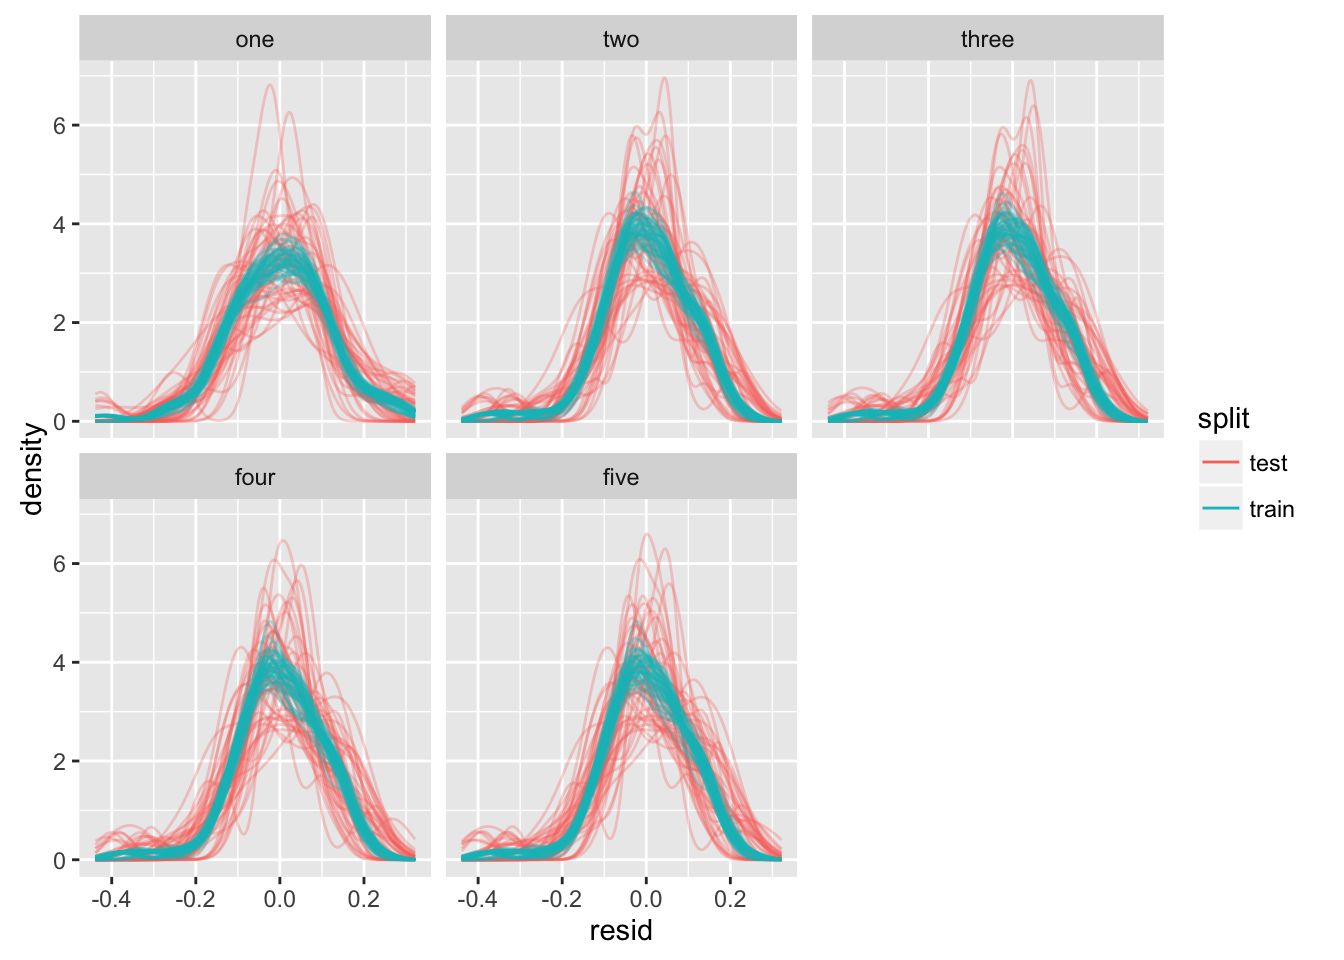
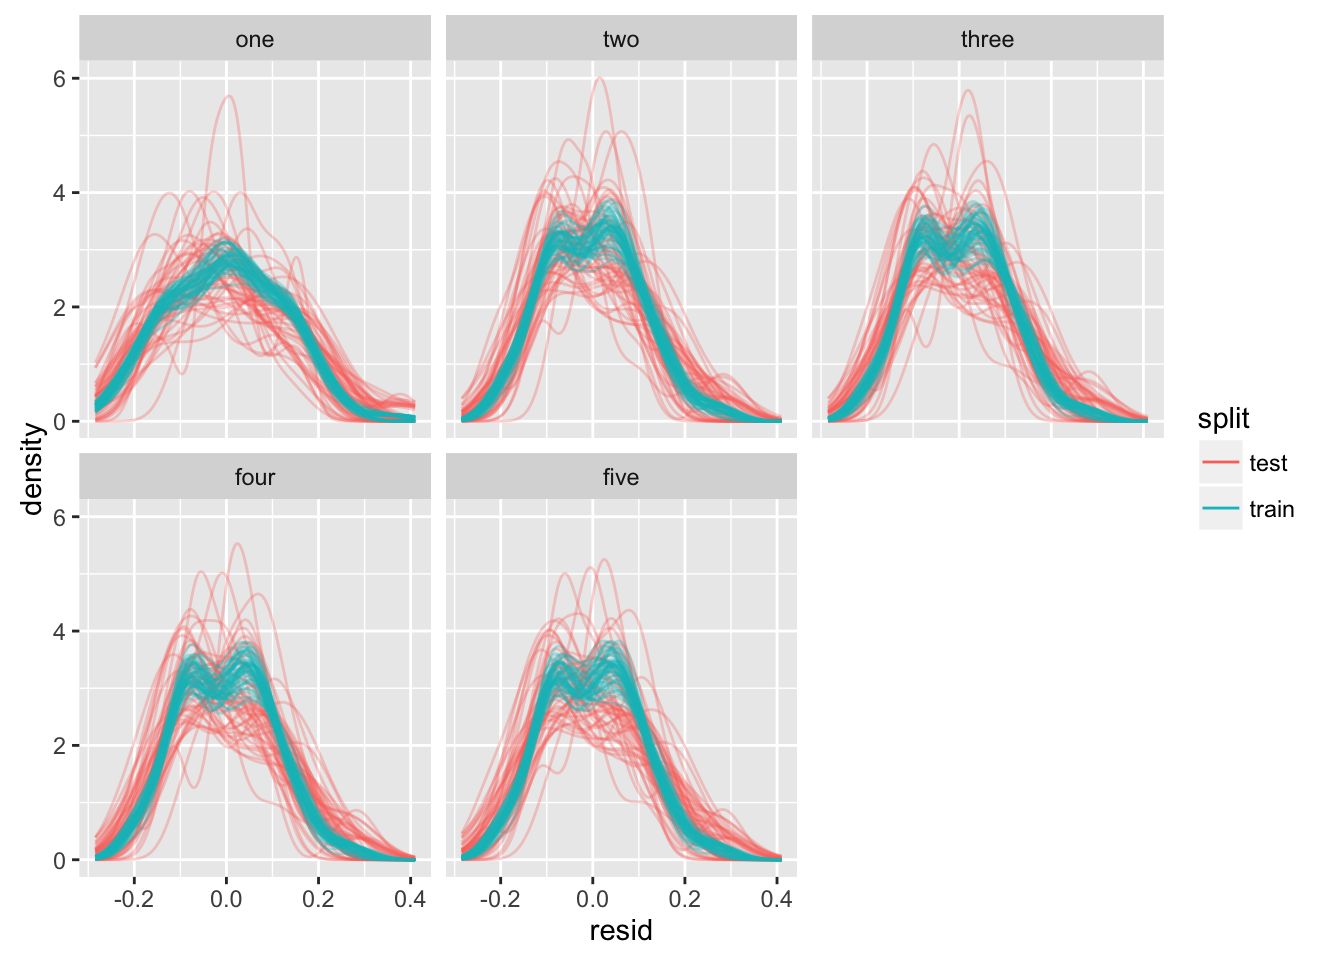
adds explicit reference

diff --git a/model_cv_selection.html b/model_cv_selection.html
@@ -373,6 +373,7 @@ knitr::opts_chunk$set(comment = &quot;&quot;) # put this into a format, once dev
 <li><p>For a given model (such as the chosen one), we want to make an estimate of how much confidence we should have in the significance of each of its coefficients.</p></li>
 </ol>
 <p>For the first two, we will use cross-validation - for the third we will use boostrapping.</p>
+<p>In each case, I am trying to follow the spirit of “An Introduction to Statistical Learning” using the purrr/modelr toolbox.</p>
 <div id="linear-regression" class="section level2">
 <h2>Linear regression</h2>
 <p>Following Hadley’s example, we want to create a dataset using the “truth” and “noise” that we specify.</p>
@@ -394,16 +395,16 @@ knitr::opts_chunk$set(comment = &quot;&quot;) # put this into a format, once dev
 <pre><code># A tibble: 100 x 2
            x        y
        &lt;dbl&gt;    &lt;dbl&gt;
-1  0.5210547 1.855529
-2  0.4627843 1.573038
-3  0.5244896 1.677966
-4  0.9891559 1.947288
-5  0.5416644 1.835031
-6  0.6756441 1.889039
-7  0.3519536 1.962250
-8  0.5697320 1.759407
-9  0.7733154 1.918960
-10 0.2193805 1.339989
+1  0.3586151 1.709639
+2  0.7227688 1.999813
+3  0.9120362 1.985136
+4  0.4834145 1.463210
+5  0.5616187 1.723652
+6  0.5039099 1.960012
+7  0.5369624 1.715158
+8  0.7751628 1.947230
+9  0.3489107 1.692465
+10 0.2650002 1.560231
 # ... with 90 more rows</code></pre>
 <p>Of course, our first step is to visualize the dataset.</p>
 <pre class="r"><code>ggplot(df, aes(x = x, y = y)) +
@@ -437,16 +438,16 @@ knitr::opts_chunk$set(comment = &quot;&quot;) # put this into a format, once dev
  $ train:List of 1
   ..$ :List of 2
   .. ..$ data:Classes &#39;tbl_df&#39;, &#39;tbl&#39; and &#39;data.frame&#39;: 100 obs. of  2 variables:
-  .. .. ..$ x: num  0.521 0.463 0.524 0.989 0.542 ...
-  .. .. ..$ y: num  1.86 1.57 1.68 1.95 1.84 ...
-  .. ..$ idx : int  1 2 3 5 6 8 9 10 11 12 ...
+  .. .. ..$ x: num  0.359 0.723 0.912 0.483 0.562 ...
+  .. .. ..$ y: num  1.71 2 1.99 1.46 1.72 ...
+  .. ..$ idx : int  2 3 4 7 10 12 13 14 15 16 ...
   .. ..- attr(*, &quot;class&quot;)= chr &quot;resample&quot;
  $ test :List of 1
   ..$ :List of 2
   .. ..$ data:Classes &#39;tbl_df&#39;, &#39;tbl&#39; and &#39;data.frame&#39;: 100 obs. of  2 variables:
-  .. .. ..$ x: num  0.521 0.463 0.524 0.989 0.542 ...
-  .. .. ..$ y: num  1.86 1.57 1.68 1.95 1.84 ...
-  .. ..$ idx : int  4 7 13 30 31 33 34 39 52 55 ...
+  .. .. ..$ x: num  0.359 0.723 0.912 0.483 0.562 ...
+  .. .. ..$ y: num  1.71 2 1.99 1.46 1.72 ...
+  .. ..$ idx : int  1 5 6 8 9 11 22 26 33 46 ...
   .. ..- attr(*, &quot;class&quot;)= chr &quot;resample&quot;
  $ .id  : chr &quot;01&quot;</code></pre>
 <p>One thing you may notice is that both the train and test elements both <em>appear</em> to contain the entire original dataset. In fact, R keeps a single copy of the original dataframe, then uses pointers wherever it is used elsewhere in the session. For more, you can read <a href="http://adv-r.had.co.nz/memory.html#object-size">this section</a> and how I got some help in <a href="https://github.com/hadley/modelr/issues/14">this thread</a>.</p>
@@ -519,16 +520,16 @@ sample_response &lt;- function(sample, model){
 <pre><code># A tibble: 5,000 x 5
      .id split     pred     resp        resid
    &lt;chr&gt; &lt;chr&gt;    &lt;dbl&gt;    &lt;dbl&gt;        &lt;dbl&gt;
-1     01 train 1.706350 1.855529 -0.149178776
-2     01 train 1.652638 1.573038  0.079599650
-3     01 train 1.709516 1.677966  0.031550473
-4     01 train 1.725347 1.835031 -0.109683252
-5     01 train 1.848846 1.889039 -0.040193328
-6     01 train 1.751219 1.759407 -0.008187925
-7     01 train 1.938876 1.918960  0.019916145
-8     01 train 1.428275 1.339989  0.088286744
-9     01 train 1.785805 1.822474 -0.036668960
-10    01 train 1.686278 1.733915 -0.047637221
+1     01 train 1.895038 1.999813 -0.104774957
+2     01 train 2.076757 1.985136  0.091620158
+3     01 train 1.665231 1.463210  0.202021527
+4     01 train 1.716643 1.715158  0.001485485
+5     01 train 1.455529 1.560231 -0.104702506
+6     01 train 1.327817 1.194904  0.132913381
+7     01 train 1.249060 1.167856  0.081204578
+8     01 train 1.276897 1.147081  0.129816328
+9     01 train 1.898995 1.976516 -0.077520948
+10    01 train 1.478020 1.509529 -0.031508661
 # ... with 4,990 more rows</code></pre>
 <p>The thing we are interested to do is to compare the performance of models on their trianing sets with their proformance on their test sets. One way we can do this is to make qualitative assesments of the kernel density of the residuals.</p>
 <pre class="r"><code>ggplot(df_split_resid, aes(x = resid, color = split, group = paste(split, .id))) +
@@ -553,16 +554,16 @@ sample_response &lt;- function(sample, model){
 <pre><code># A tibble: 100 x 3
      .id split      rmse
    &lt;chr&gt; &lt;chr&gt;     &lt;dbl&gt;
-1     01  test 0.1623577
-2     01 train 0.1042993
-3     02  test 0.1154751
-4     02 train 0.1189499
-5     03  test 0.0981743
-6     03 train 0.1232048
-7     04  test 0.1217852
-8     04 train 0.1174028
-9     05  test 0.1061283
-10    05 train 0.1212039
+1     01  test 0.1546300
+2     01 train 0.1158320
+3     02  test 0.1131725
+4     02 train 0.1276568
+5     03  test 0.1261909
+6     03 train 0.1244469
+7     04  test 0.1347048
+8     04 train 0.1218527
+9     05  test 0.1183370
+10    05 train 0.1263965
 # ... with 90 more rows</code></pre>
 <p>We can visualize this summary.</p>
 <pre class="r"><code>ggplot(df_split_rmse, aes(x = &quot;linear&quot;, y = rmse)) +
@@ -675,16 +676,16 @@ df_sample_model_created &lt;-
 <pre><code># A tibble: 25,000 x 6
      .id model_name split     pred     resp        resid
    &lt;chr&gt;      &lt;chr&gt; &lt;chr&gt;    &lt;dbl&gt;    &lt;dbl&gt;        &lt;dbl&gt;
-1     01        one train 1.706350 1.855529 -0.149178776
-2     01        one train 1.652638 1.573038  0.079599650
-3     01        one train 1.709516 1.677966  0.031550473
-4     01        one train 1.725347 1.835031 -0.109683252
-5     01        one train 1.848846 1.889039 -0.040193328
-6     01        one train 1.751219 1.759407 -0.008187925
-7     01        one train 1.938876 1.918960  0.019916145
-8     01        one train 1.428275 1.339989  0.088286744
-9     01        one train 1.785805 1.822474 -0.036668960
-10    01        one train 1.686278 1.733915 -0.047637221
+1     01        one train 1.895038 1.999813 -0.104774957
+2     01        one train 2.076757 1.985136  0.091620158
+3     01        one train 1.665231 1.463210  0.202021527
+4     01        one train 1.716643 1.715158  0.001485485
+5     01        one train 1.455529 1.560231 -0.104702506
+6     01        one train 1.327817 1.194904  0.132913381
+7     01        one train 1.249060 1.167856  0.081204578
+8     01        one train 1.276897 1.147081  0.129816328
+9     01        one train 1.898995 1.976516 -0.077520948
+10    01        one train 1.478020 1.509529 -0.031508661
 # ... with 24,990 more rows</code></pre>
 <p>And look at some kernel-density distributions:</p>
 <pre class="r"><code>df_sample_resid %&gt;%
@@ -710,16 +711,16 @@ df_sample_model_created &lt;-
 <pre><code># A tibble: 500 x 4
      .id model_name split       rmse
    &lt;chr&gt;      &lt;chr&gt; &lt;chr&gt;      &lt;dbl&gt;
-1     01       five  test 0.14853889
-2     01       five train 0.09358149
-3     01       four  test 0.15137501
-4     01       four train 0.09367255
-5     01        one  test 0.16235774
-6     01        one train 0.10429925
-7     01      three  test 0.14097677
-8     01      three train 0.09409568
-9     01        two  test 0.12855223
-10    01        two train 0.09539883
+1     01       five  test 0.12308816
+2     01       five train 0.09798133
+3     01       four  test 0.12202261
+4     01       four train 0.09826137
+5     01        one  test 0.15463001
+6     01        one train 0.11583199
+7     01      three  test 0.12216062
+8     01      three train 0.09850063
+9     01        two  test 0.12162320
+10    01        two train 0.09850634
 # ... with 490 more rows</code></pre>
 <pre class="r"><code>df_sample_rmse %&gt;%
   mutate(model_name = factor(model_name, levels = c(&quot;one&quot;, &quot;two&quot;, &quot;three&quot;, &quot;four&quot;, &quot;five&quot;))) %&gt;%
